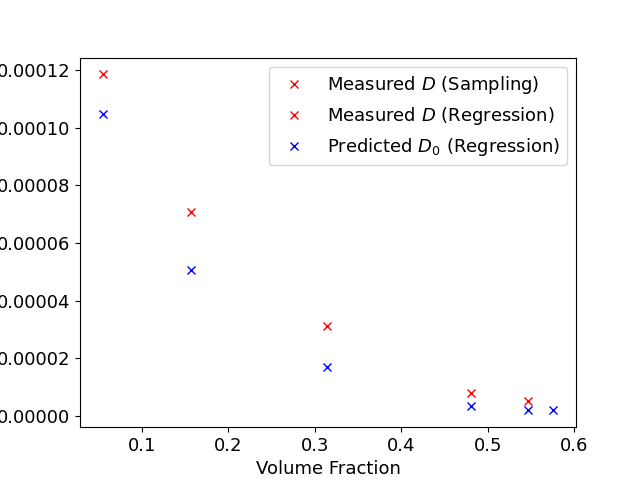
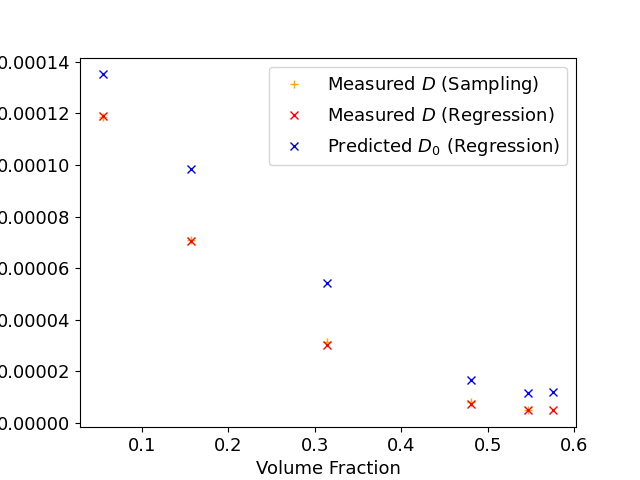
Dilute diffusion data collection (Davids theory)

diff --git a/Phase_Structure/Nunchucks/Fixed_Angle/Crystalline/Dilute_Case/diffusion_coeff_david.py b/Phase_Structure/Nunchucks/Fixed_Angle/Crystalline/Dilute_Case/diffusion_coeff_david.py
@@ -317,17 +317,17 @@ fig.legend(loc="center right")
 plt.savefig("sqd_displacement_runwise.png")
 plt.show()
 
-plt.plot(
+plt.semilogx(
     sampled_vol_frac,
     sampled_D_values,
     "+",
     color="Orange",
     label=r"Measured $D$ (Sampling)",
 )
-plt.plot(
+plt.semilogx(
     sampled_vol_frac, regression_D_values, "rx", label=r"Measured $D$ (Regression)"
 )
-plt.plot(
+plt.semilogx(
     sampled_vol_frac,
     regression_D0_values,
     "bx",

diff --git a/Phase_Structure/Rigid_Rods2/Crystalline/Dilute_Case/diffusion_coeff_david.py b/Phase_Structure/Rigid_Rods2/Crystalline/Dilute_Case/diffusion_coeff_david.py
@@ -317,17 +317,17 @@ fig.legend(loc="center right")
 plt.savefig("sqd_displacement_runwise.png")
 plt.show()
 
-plt.plot(
+plt.semilogx(
     sampled_vol_frac,
     sampled_D_values,
     "+",
     color="Orange",
     label=r"Measured $D$ (Sampling)",
 )
-plt.plot(
+plt.semilogx(
     sampled_vol_frac, regression_D_values, "rx", label=r"Measured $D$ (Regression)"
 )
-plt.plot(
+plt.semilogx(
     sampled_vol_frac,
     regression_D0_values,
     "bx",
